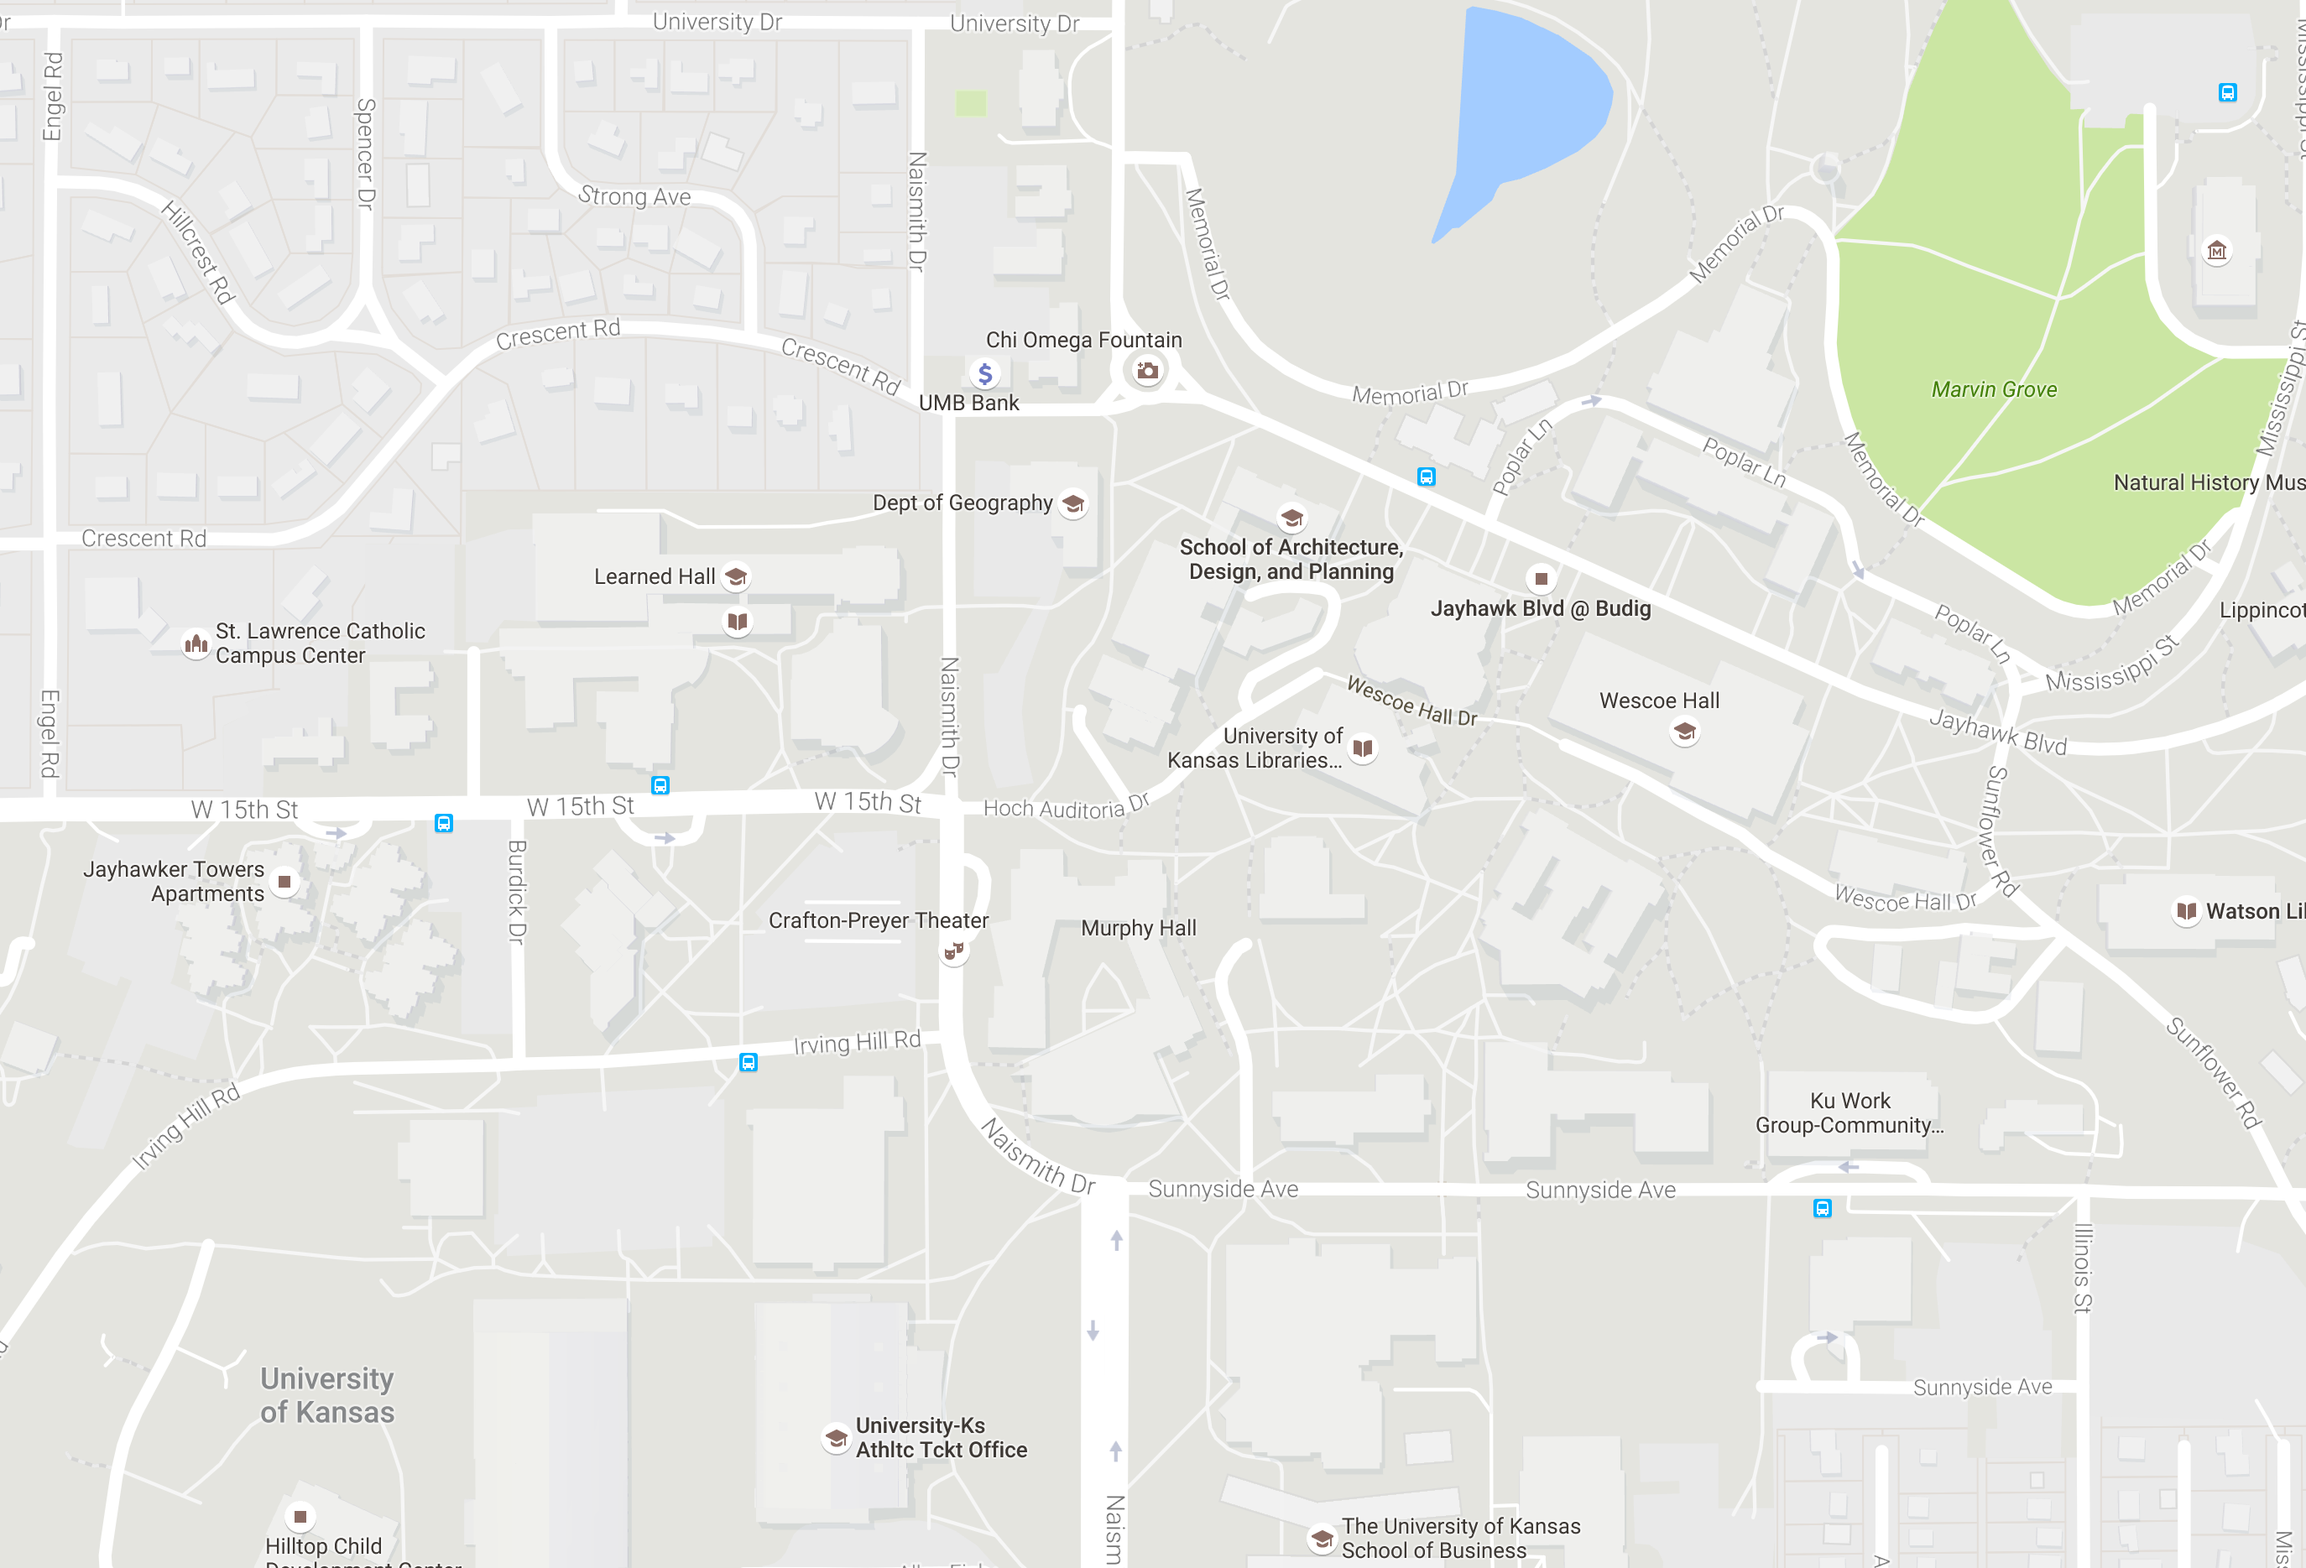
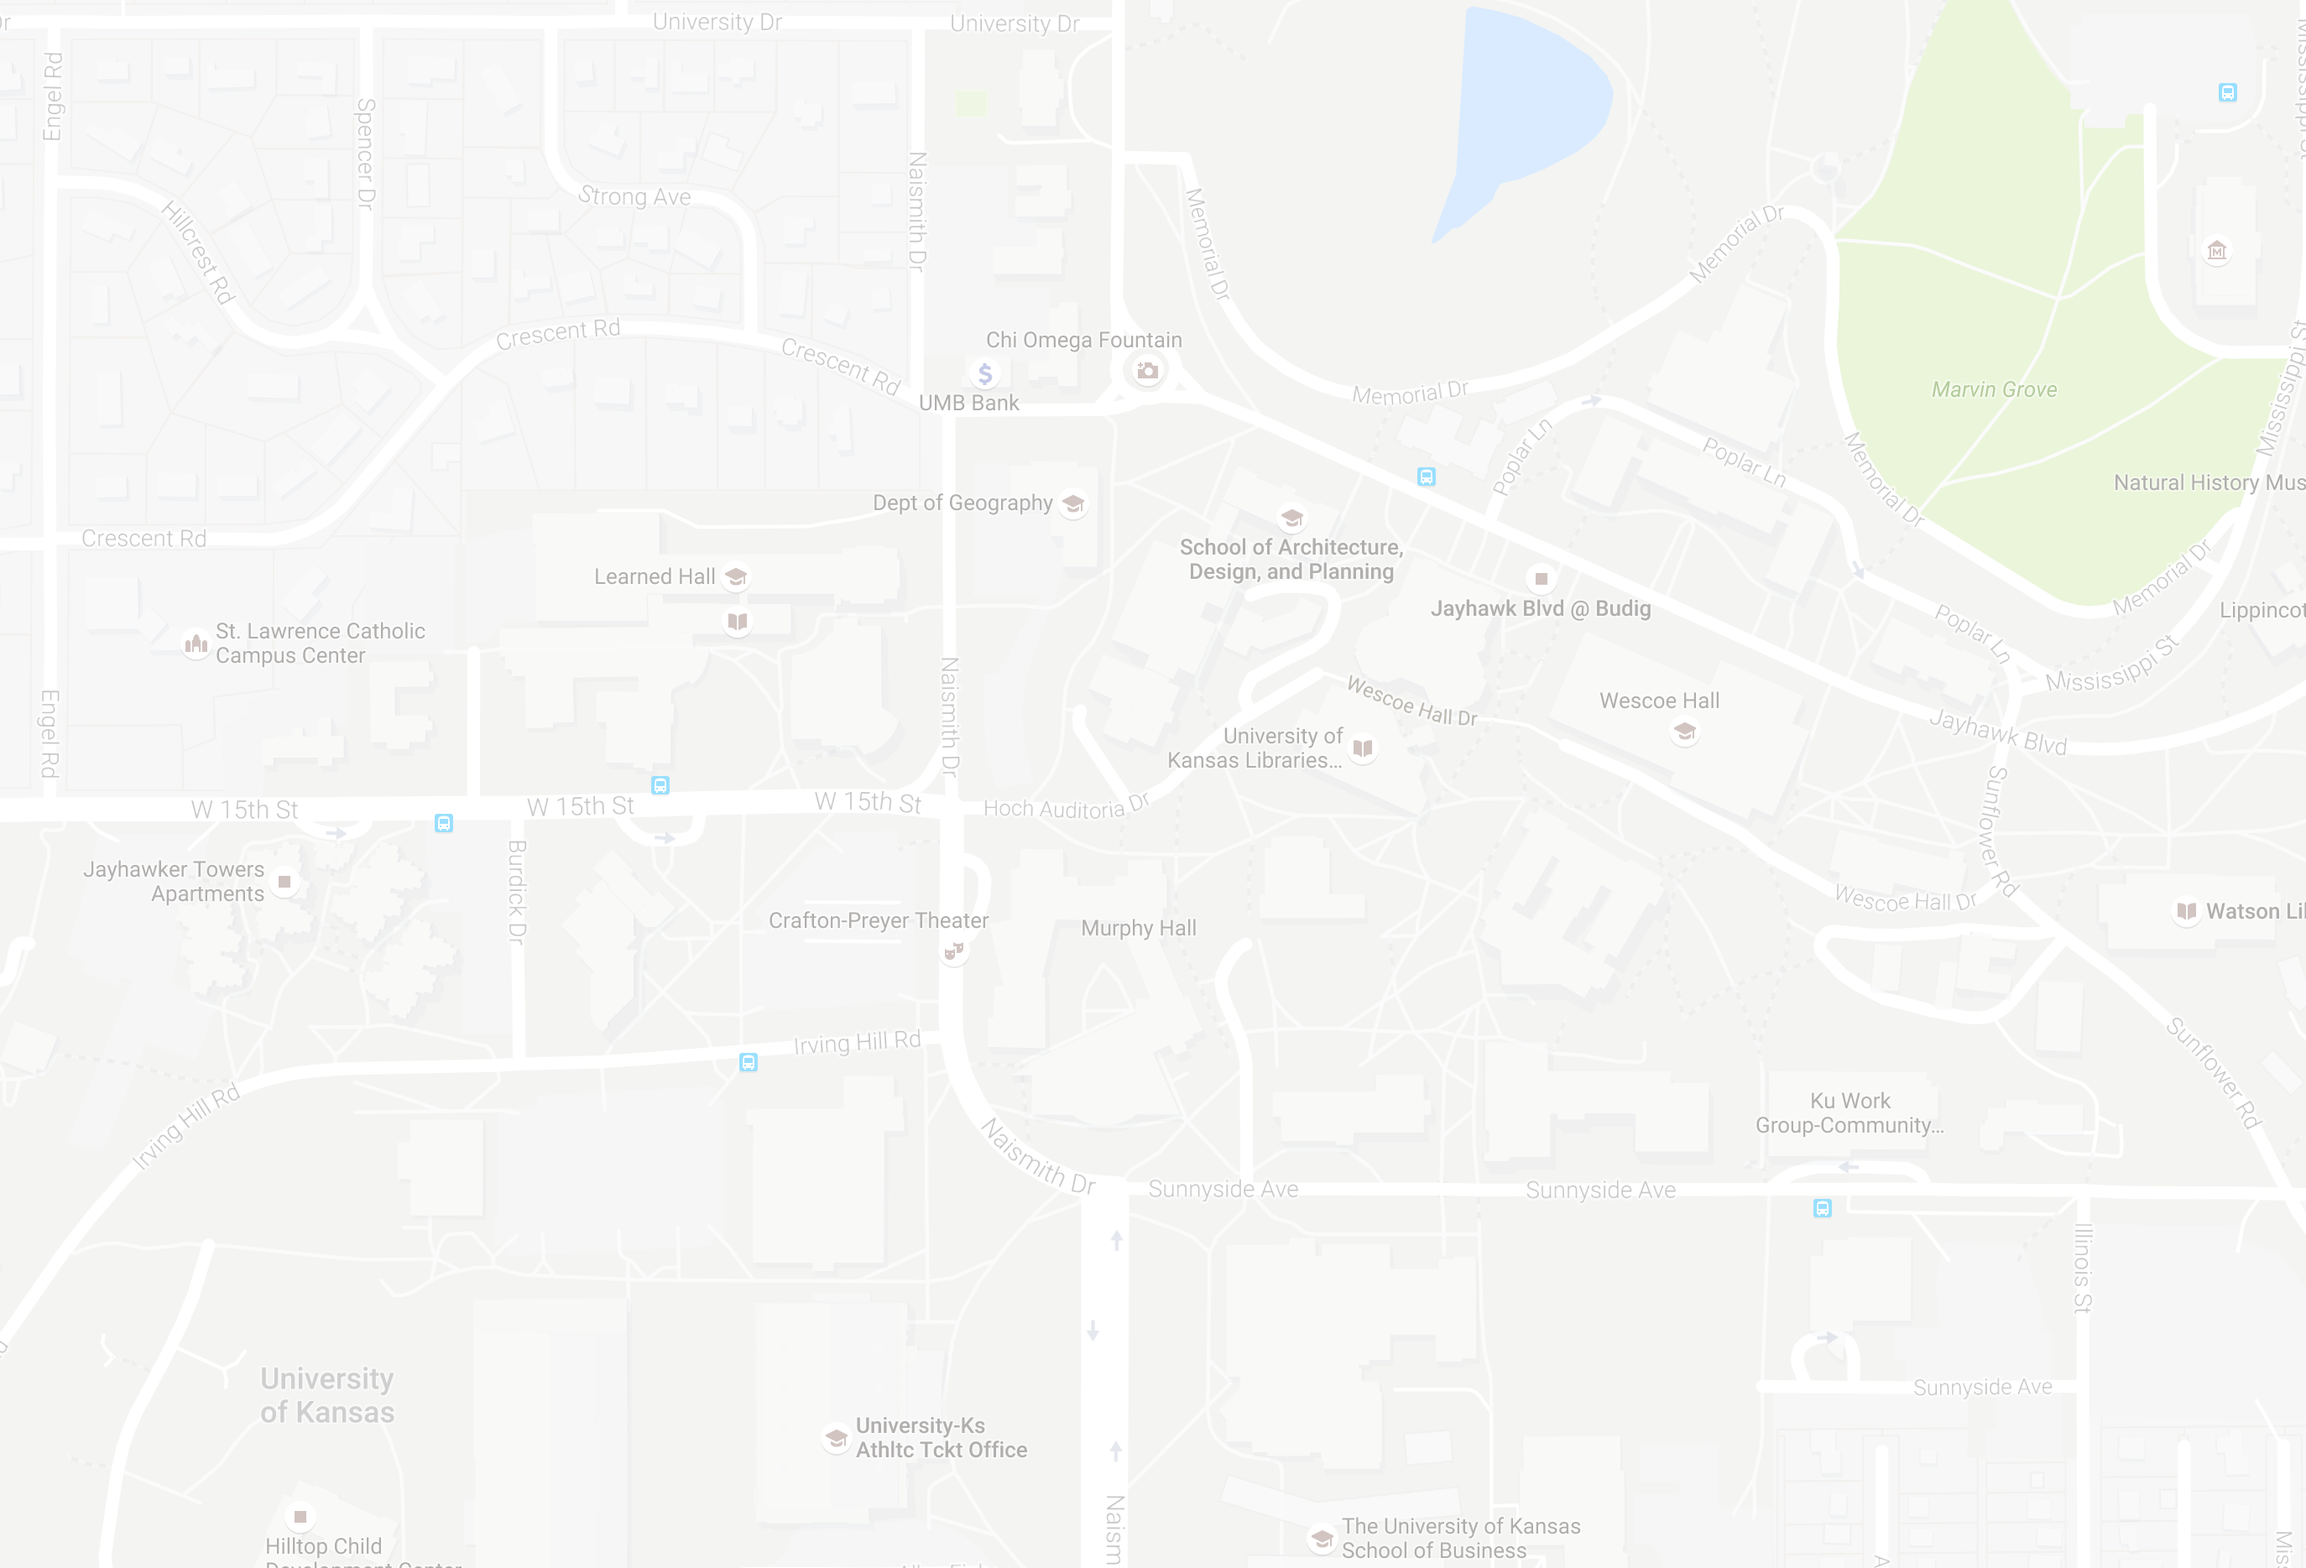
minor background fix

diff --git a/imports/ui/stylesheets/_building.scss b/imports/ui/stylesheets/_building.scss
@@ -1,20 +1,14 @@
-.building-map-bg {
+.building-details {
   height: 500px;
   width: 100%;
-  position: absolute;
-  background: url('/../../../illustrations/map.png') center center;
-  background-size: cover;
-  opacity: 0.2;
-}
-
-.building-details {
-  z-index: 1;
-  height: 500px;
+  margin-top: -20px;
   display: flex;
   flex-direction: column;
   align-items: center;
   justify-content: center;
   text-align: center;
+  background: url('/../../../illustrations/map.png') no-repeat center center;
+  background-size: cover;
 }
 
 .building-name {
@@ -36,12 +30,20 @@
   font-weight: $bold;
 }
 
+.building-map-btn:hover,
+.building-map-btn:active,
+.building-map-btn:focus {
+  text-decoration: none;
+  color: $blue;
+  border-color: $blue;
+}
+
 .overall-rating {
   display: flex;
   flex-direction: row;
   align-items: center;
   justify-content: center;
-  padding-top: 40px;
+  padding-top: 25px;
   padding-bottom: 10px;
   text-align: center;
   border-bottom: 1px solid $border;

diff --git a/imports/ui/pages/building/index.js b/imports/ui/pages/building/index.js
@@ -7,9 +7,9 @@ import ui from '../../components';
 
 class Building extends Component {
   renderBlock() {
+    let url = `https://maps.google.com?q=${this.props.building.address.full}`;
     return (
       <div>
-        <div className="building-map-bg"></div>
         <div className="container building-details">
           <div className="building-name">
             {this.props.building.name}
@@ -24,7 +24,7 @@ class Building extends Component {
               {this.props.building.address.zip}&nbsp;
             </div>
           </div>
-          <a className="btn-default-invert building-map-btn" href={"https://maps.google.com?q=" + this.props.building.address.full} target="_blank">MAP</a>
+          <a className="btn-default-invert building-map-btn" href={url} target="_blank">MAP</a>
         </div>
         <div className="row container center-block overall-rating">
           <div className="col-xs-4 overall-quality">
